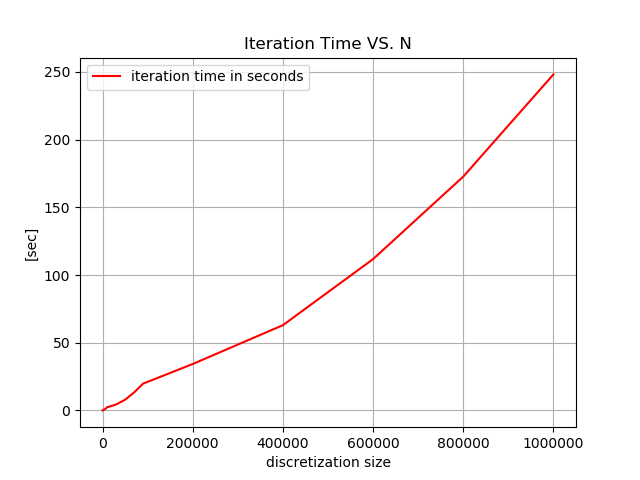
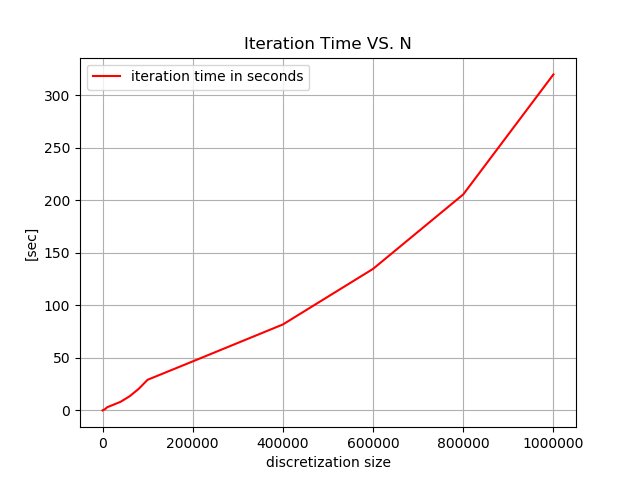
do the writeup

diff --git a/Homework/SEM2/02/src/script.py b/Homework/SEM2/02/src/script.py
@@ -6,10 +6,12 @@ import time
 #Setup functions to be used in script environment
 abs = lambda a : np.abs(a)
 
-def orderOfDecade(decade,N_arr,E_arr):
-	decade = int(decade)
-	i = N_arr.index(decade);
-	return str(abs(round(math.log(E_arr[i+9],10) - math.log(E_arr[i],10),3)))
+def orderOfDecade(decade,N,E):
+    decade = int(decade)
+    i = N.index(decade)
+    j = 0;
+    while N[j] < decade*10 : j += 1;
+    return str(abs(round(math.log(E[j],10) - math.log(E[i],10),3)))
 
 f = lambda x : 1 / (1 + x) #Note is only a function of x
 soln = lambda t: np.sqrt(4 + 2*t) - 1
@@ -32,11 +34,6 @@ def TRAP(N):
     x = np.array(x);
     return (t,x,Emax(x,t),Eend(x,t));
 
-
-
-
-#How does the error at t=16 depend on N with TRAP?
-
 #RK Part
 def RK4(N):
     delta = 16/N
@@ -52,6 +49,16 @@ def RK4(N):
         x.append(__RK4(x[-1]))
     x = np.array(x);
     return (t,x,Emax(x,t),Eend(x,t))
+
+
+
+
+
+
+
+
+#==================================================================================================
+#==================================================================================================
 
 def plotRK4():
     N = [n*10**m for m in [2,3,4,5] for n in range(1,10)]
@@ -80,7 +87,6 @@ def plotRK4():
     plt.grid(True)
     plt.legend();
     plt.show()
-
 
 def plotTRAP():
     N = [n*10**m for m in [2,3,4,5] for n in range(1,10)]
@@ -113,10 +119,10 @@ def plotTRAP():
     plt.show()
 
 def plotMethod(method,everyOther=False):
-    N = [n*10**m for m in [2,3,4,5] for n in range(1,10)]
-    if everyOther:
-        N = [N[i] for i in range(len(N)) if i % 2 == 0]
+    distribution = (1,2,4,6,8) if everyOther else (1,2,3,4,5,6,7,8,9)
+    N = [n*10**m for m in [2,3,4,5] for n in distribution]
     N.append(1000000)
+
     Eendings = []
     Emaxes = []
 
@@ -124,7 +130,6 @@ def plotMethod(method,everyOther=False):
     tics = [];
     try:
         tic = time.time()
-
         for n in N:
             (t,x,Emax,Eend) = method(n);
             print("n="+str(n)+", time="+str(round(time.time() - tic,2)) + "[s]")
